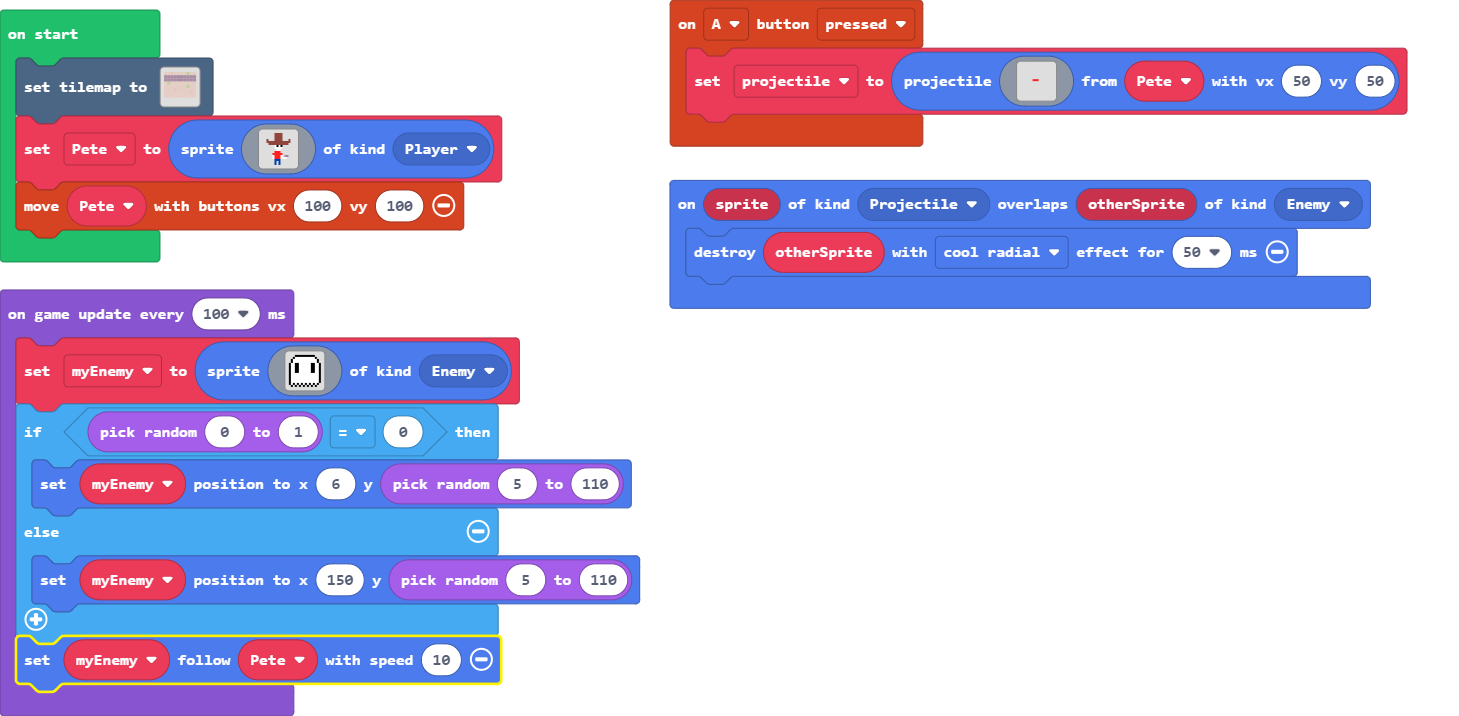
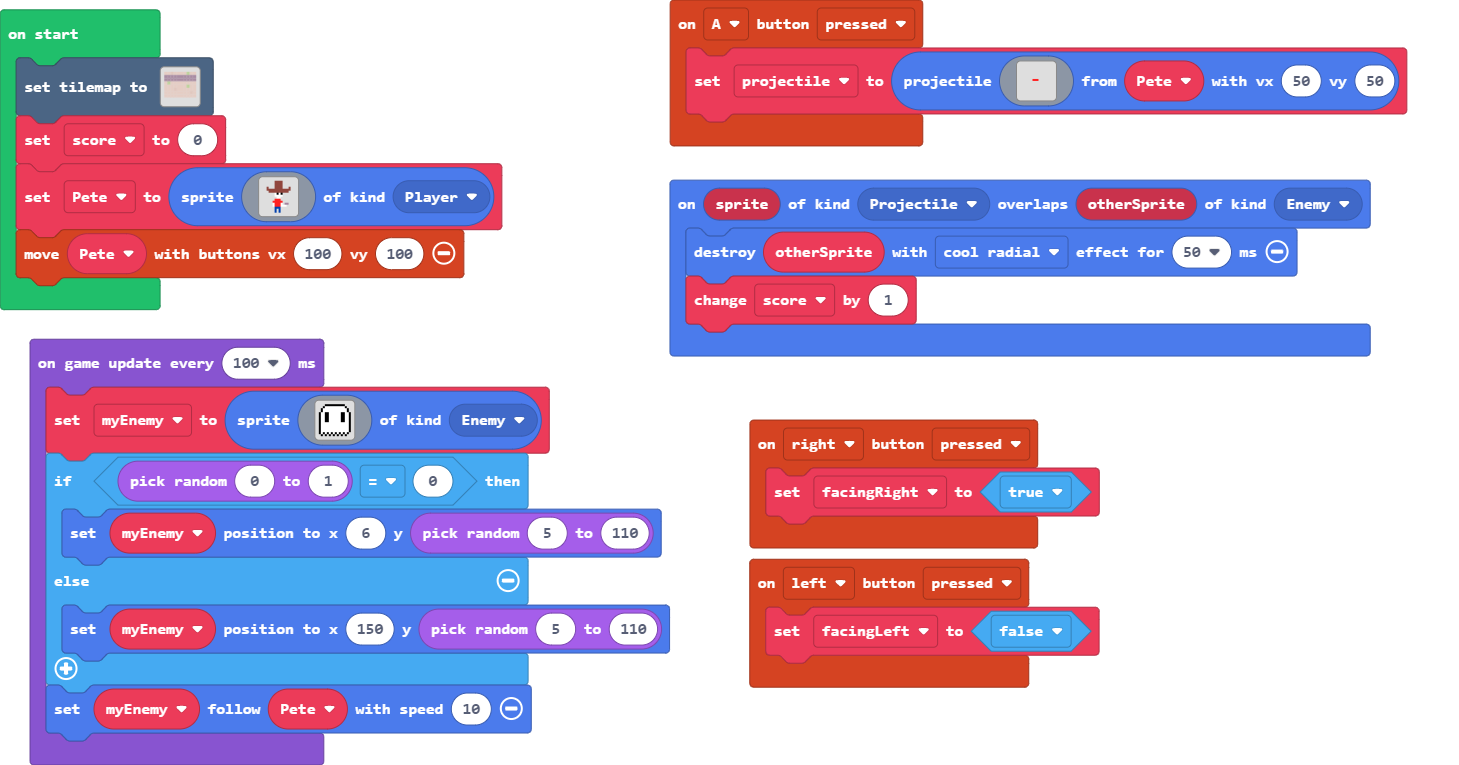
Update main.blocks, main.ts

diff --git a/main.ts b/main.ts
@@ -1,13 +1,23 @@
 controller.A.onEvent(ControllerButtonEvent.Pressed, function () {
     projectile = sprites.createProjectileFromSprite(assets.image`bullet`, Pete, 50, 50)
 })
+controller.left.onEvent(ControllerButtonEvent.Pressed, function () {
+    facingLeft = false
+})
+controller.right.onEvent(ControllerButtonEvent.Pressed, function () {
+    facingRight = true
+})
 sprites.onOverlap(SpriteKind.Projectile, SpriteKind.Enemy, function (sprite, otherSprite) {
     otherSprite.destroy(effects.coolRadial, 50)
+    score += 1
 })
 let myEnemy: Sprite = null
+let facingRight = false
+let facingLeft = false
 let projectile: Sprite = null
 let Pete: Sprite = null
 tiles.setTilemap(tilemap`bg`)
+let score = 0
 Pete = sprites.create(assets.image`Pete`, SpriteKind.Player)
 controller.moveSprite(Pete, 100, 100)
 game.onUpdateInterval(100, function () {
